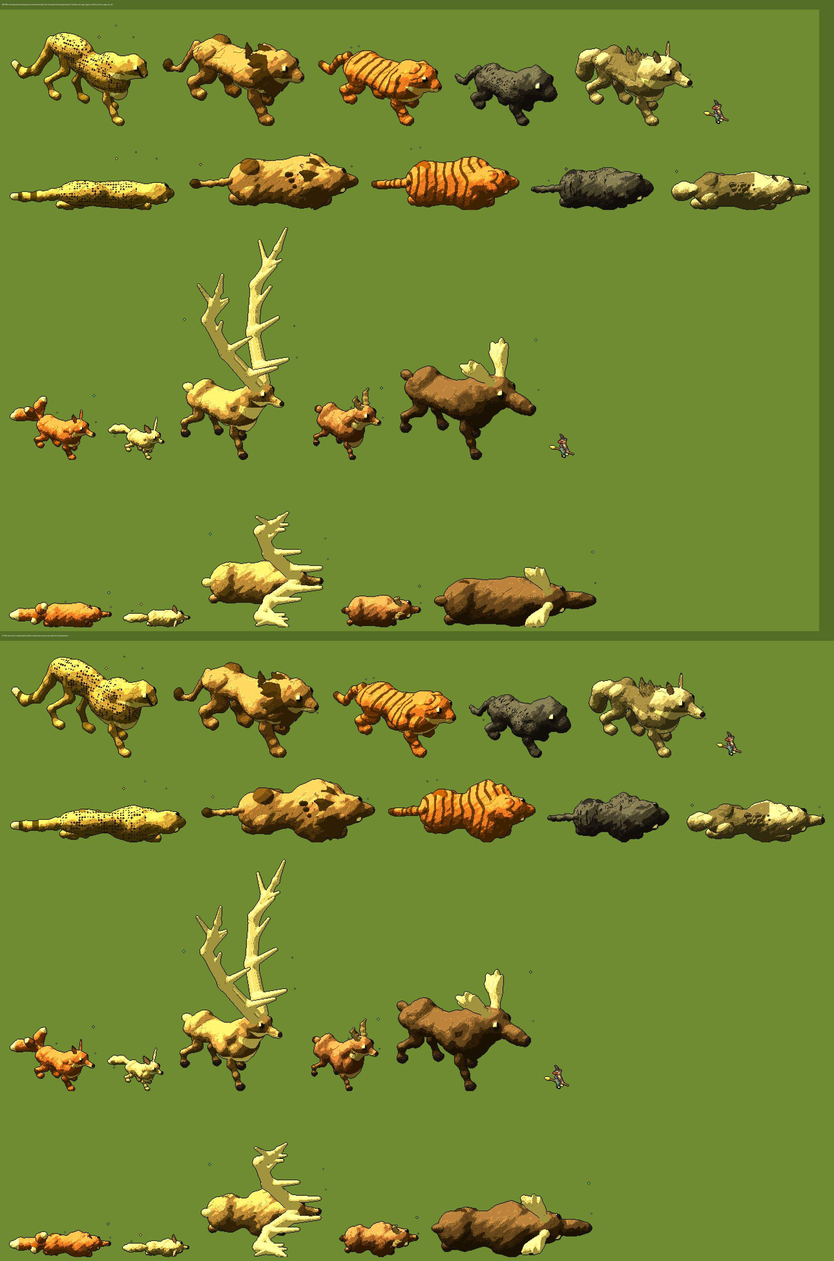
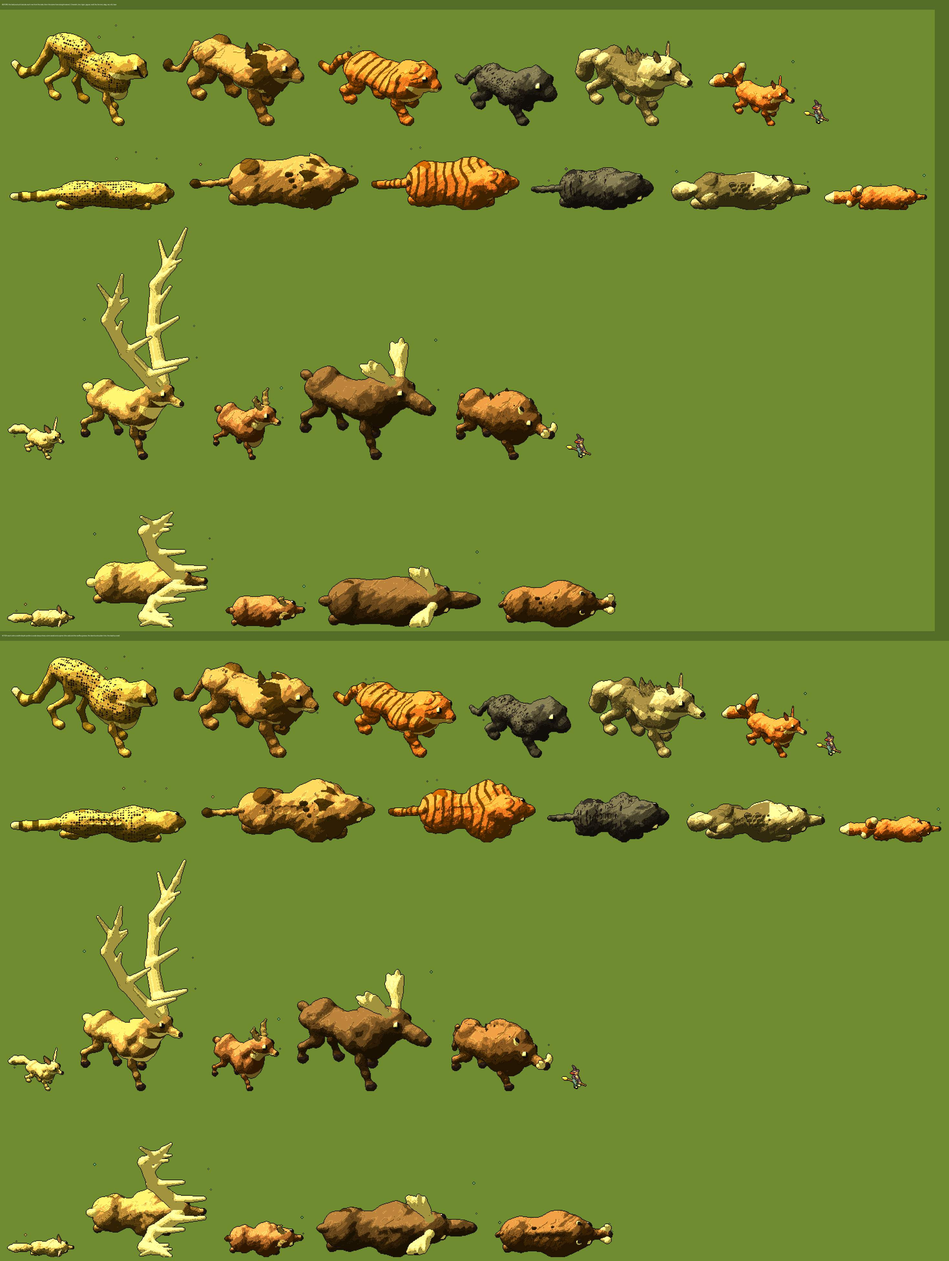
Creatures: a spine along the back, a crest or a groove (Ed: a distinct spine, from a tall crest to a recessed depression)
body.spine: a signed height at the profile's stations, a crest standing on the back line or a valley cut into it between
the back muscles, nothing without one. The cats and the wolf get a groove, the stag and elk a shoulder line, the boar a
crest its bristles stand on. The before/after sheet shows the eleven species from the side and above.

Claude-Session: https://claude.ai/code/session_01SzjrULBxoRwTPW2F6P3sSi

diff --git a/art/genome/species.js b/art/genome/species.js
@@ -13,7 +13,7 @@
 //   coat: markings: belly, saddle, spots, spotMat, socks, shaggy, wool, ridge, rump, legMat.
 //   legend: what the legendary form grows (FEATURE_NAMES in creatures.js).
 export const GENOMES = [
-  { id: "wolf", name: "Wolf", template: "quadruped", builder: "quad", palette: { hue: .08, sat: .2, val: .72 }, body: { hgt: 1.12, len: .66, chest: .46, tuck: .66, neck: .34, neckAng: .62, neckW: .4, hr: .25, legW: 1.05 , profile: { shoulder: { w: 1.12, d: 1.08 }, ribcage: { w: 1.04 }, waist: { w: .74, d: .82 }, loin: { w: .8, d: .9 }, hip: { w: .9 } } }, head: { snout: .9, snoutD: .65 }, parts: { ears: { kind: "point", size: 1.05 }, tail: "brush", feet: "paw" }, coat: { belly: true, saddle: true }, legend: ["wings", "mane"],
+  { id: "wolf", name: "Wolf", template: "quadruped", builder: "quad", palette: { hue: .08, sat: .2, val: .72 }, body: { hgt: 1.12, len: .66, chest: .46, tuck: .66, neck: .34, neckAng: .62, neckW: .4, hr: .25, legW: 1.05 , profile: { shoulder: { w: 1.12, d: 1.08 }, ribcage: { w: 1.04 }, waist: { w: .74, d: .82 }, loin: { w: .8, d: .9 }, hip: { w: .9 } } , spine: { ribcage: -.025, waist: -.035, loin: -.025 } }, head: { snout: .9, snoutD: .65 }, parts: { ears: { kind: "point", size: 1.05 }, tail: "brush", feet: "paw" }, coat: { belly: true, saddle: true }, legend: ["wings", "mane"],
     // its evolution (docs/art-guide/EVOLUTIONS.md): a round pup with big paws and floppy ears, a lanky young, an adult with a heavy
     // shaggy mane over its shoulders, and the legend: shoulders twice its hips, a mane of spiky locks, pale spirit-fire along its
     // spine, glowing eyes and frost on its muzzle
@@ -51,7 +51,7 @@ export const GENOMES = [
       { body: { len: 1.6, hgt: .55, bw: .62, chest: .04, tuck: .05, legW: 1.7, hr: .3, neckAng: .12 }, head: { blaze: 1.8 }, features: [{ kind: "mane", from: .1, to: .85, height: .04, count: 16, lean: .95 }, { kind: "claws", size: .14 }] }, // (Ed, 2026-10-07: low, wide and flat-backed on short legs, not a bear: art lint)
       { body: { len: .95, bw: .5, chest: .14, tuck: .16, legW: 1.8, neckAng: .25, hr: .3 }, head: { blaze: 1.6 }, features: [{ kind: "mane", from: .05, to: .9, height: .08, count: 20, lean: 1 }, { kind: "claws", size: .24 }] }, // the elder (art/elders.js): grizzled, scarred, its stripes running down its back as chalk hill-figure lines, a bronze torc
     ] },
-  { id: "boar", name: "Boar", template: "quadruped", builder: "quad", palette: { hue: .07, sat: .62, val: .5 }, body: { len: .72, chest: .38, tuck: .5, neck: .2, neckAng: -.2, neckW: .55, hr: .27, legW: .9, back: "hump", front: 1.18, humpK: 1.6 }, head: { snout: 1.25, snoutD: .62, snoutTaper: .55, disc: true }, parts: { ears: { kind: "small", size: .8 }, tail: "thin", feet: "hoof", tusks: true }, coat: { ridge: true }, texture: { kind: "bristles" },
+  { id: "boar", name: "Boar", template: "quadruped", builder: "quad", palette: { hue: .07, sat: .62, val: .5 }, body: { len: .72, chest: .38, tuck: .5, neck: .2, neckAng: -.2, neckW: .55, hr: .27, legW: .9, back: "hump", front: 1.18, humpK: 1.6 , spine: { shoulder: .1, ribcage: .09, waist: .07, loin: .05, hip: .02 } }, head: { snout: 1.25, snoutD: .62, snoutTaper: .55, disc: true }, parts: { ears: { kind: "small", size: .8 }, tail: "thin", feet: "hoof", tusks: true }, coat: { ridge: true }, texture: { kind: "bristles" },
     // its evolution (the pilot of the evolution kit): a round, stubby, banded piglet; the young as it is; a heavy-fronted adult with a
     // shoulder hump, its head low and its tusks curving; a massive, top-heavy legend charging head-down with huge curling tusks, pale
     // flames off their tips and a dark shaggy mane along its spine and belly
@@ -69,7 +69,7 @@ export const GENOMES = [
         { kind: "scars", count: 3, from: .35 },
       ] },
     ] },
-  { id: "stag", name: "Stag", template: "quadruped", builder: "quad", palette: { hue: .08, sat: .5, val: .7 }, body: { hgt: 1.3, len: .6, chest: .6, tuck: .7, neck: .55, neckAng: .95, neckW: .32, hr: .2, legW: .75 , profile: { shoulder: { w: 1.15, d: 1.1 }, ribcage: { w: 1.08 }, waist: { w: .72, d: .82 }, loin: { w: .8, d: .9 }, hip: { w: .95 } } }, head: { snout: 1.15, snoutD: .6, snoutTaper: .65 }, parts: { ears: { kind: "point", size: 1.1 }, tail: "deer", feet: "hoof", antlers: "branch" }, coat: { belly: true, spots: "young", antlerK: 1.9, rump: true }, legend: ["antlersGlow"] },
+  { id: "stag", name: "Stag", template: "quadruped", builder: "quad", palette: { hue: .08, sat: .5, val: .7 }, body: { hgt: 1.3, len: .6, chest: .6, tuck: .7, neck: .55, neckAng: .95, neckW: .32, hr: .2, legW: .75 , profile: { shoulder: { w: 1.15, d: 1.1 }, ribcage: { w: 1.08 }, waist: { w: .72, d: .82 }, loin: { w: .8, d: .9 }, hip: { w: .95 } } , spine: { shoulder: .04, ribcage: .025 } }, head: { snout: 1.15, snoutD: .6, snoutTaper: .65 }, parts: { ears: { kind: "point", size: 1.1 }, tail: "deer", feet: "hoof", antlers: "branch" }, coat: { belly: true, spots: "young", antlerK: 1.9, rump: true }, legend: ["antlersGlow"] },
   { id: "hare", name: "Hare", template: "quadruped", builder: "quad", palette: { hue: .08, sat: .4, val: .72 }, body: { hgt: .72, len: .5, chest: .4, tuck: .45, neck: .2, neckAng: .9, neckW: .35, hr: .27, legW: .85, haunch: 1.35, hindFoot: 1.6, back: "arch" }, head: { snout: .65, snoutD: .7, whiskers: true }, parts: { ears: { kind: "long", size: 2.4 }, tail: "puff", feet: "paw" }, coat: { belly: true }, legend: [], elder: { kind: "hare", ears: true, eye: "EYE" } },
   { id: "owl", name: "Owl", template: "avian", builder: "owl", palette: { hue: .08, sat: .5, val: .55 }, legend: ["eyesRing", "wings"],
     // its evolution (docs/art-guide/EVOLUTIONS.md): a downy owlet with huge eyes and no tufts, a smooth young with short tufts, an
@@ -87,7 +87,7 @@ export const GENOMES = [
   { id: "toad", name: "Toad", template: "squat", builder: "toad", palette: { hue: .2, sat: .5, val: .55 }, legend: ["crown", "sac"] },
   { id: "otter", name: "Otter", template: "quadruped", builder: "quad", palette: { hue: .07, sat: .55, val: .45, belly: "white" }, body: { stance: "flat", hgt: .46, len: 1.15, chest: .32, tuck: .26, neck: .36, neckAng: .5, neckW: .6, hr: .27, legW: 1.2, back: "arch" }, head: { snout: .55, snoutD: .55, muzzle: true, whiskers: true }, parts: { ears: { kind: "round", size: .4 }, tail: "otter", feet: "paw" }, coat: { belly: true }, legend: ["ribbons"] },
   { id: "lynx", name: "Lynx", template: "quadruped", builder: "quad", palette: { hue: .09, sat: .45, val: .75 }, body: { hgt: 1.08, len: .5, chest: .56, tuck: .62, neck: .25, neckAng: .8, neckW: .4, hr: .27, legW: .95 }, head: { snout: .5, snoutD: .75, snoutTaper: .8, cheeks: true, whiskers: true }, parts: { ears: { kind: "tuft", size: 1.5 }, tail: "bob", feet: "paw" }, coat: { belly: true, spots: true }, legend: ["mane"] },
-  { id: "elk", name: "Elk", template: "quadruped", builder: "quad", palette: { hue: .07, sat: .55, val: .38 }, body: { hgt: 1.4, len: .68, chest: .6, tuck: .66, neck: .45, neckAng: .75, neckW: .42, hr: .24, legW: .9, back: "hump" , profile: { shoulder: { w: 1.15, d: 1.1 }, ribcage: { w: 1.1 }, waist: { w: .78, d: .86 }, loin: { w: .85, d: .94 }, hip: { w: .95 } } }, head: { snout: 1.6, snoutD: .9, snoutTaper: .85 }, parts: { ears: { kind: "point", size: .9 }, tail: "stub", feet: "hoof", antlers: "palm", antlerK: 1.75 }, coat: { shaggy: true }, legend: ["antlersGlow", "moss"] },
+  { id: "elk", name: "Elk", template: "quadruped", builder: "quad", palette: { hue: .07, sat: .55, val: .38 }, body: { hgt: 1.4, len: .68, chest: .6, tuck: .66, neck: .45, neckAng: .75, neckW: .42, hr: .24, legW: .9, back: "hump" , profile: { shoulder: { w: 1.15, d: 1.1 }, ribcage: { w: 1.1 }, waist: { w: .78, d: .86 }, loin: { w: .85, d: .94 }, hip: { w: .95 } } , spine: { shoulder: .05, ribcage: .03 } }, head: { snout: 1.6, snoutD: .9, snoutTaper: .85 }, parts: { ears: { kind: "point", size: .9 }, tail: "stub", feet: "hoof", antlers: "palm", antlerK: 1.75 }, coat: { shaggy: true }, legend: ["antlersGlow", "moss"] },
   { id: "raven", name: "Raven", template: "avian", builder: "raven", palette: { hue: .68, sat: .35, val: .3 }, legend: ["wings", "eyesRing"] },
   { id: "bat", name: "Bat", template: "flyer", builder: "bat", palette: { hue: .78, sat: .25, val: .45 }, legend: ["wingsBig"] , texture: { kind: "fur", size: 3 } },
   { id: "mole", name: "Mole", template: "squat", builder: "mole", palette: { hue: .7, sat: .15, val: .32, flower: [70, 190, 150] }, legend: [], elder: { kind: "mole" }, texture: { kind: "fur", size: 3 } },
@@ -167,7 +167,7 @@ export const GENOMES = [
   // a round, big-pawed cub with soft broad stripes, a lanky young, a heavy-shouldered adult with a ruff of cheek fur, and the legend:
   // the elder of the tigers, huge and grizzled, its stripes worn thin with age, old scars raked across its flanks and brow, a white
   // ruff, and a garland of red flowers and bronze beads round its neck, the jungle's offerings
-  { id: "tiger", name: "Tiger", template: "quadruped", builder: "quad", palette: { hue: .065, sat: .85, val: .9, belly: "white", flower: [214, 48, 58] }, body: { hgt: 1.1, len: .86, chest: .5, tuck: .56, neck: .28, neckAng: .5, neckW: .52, hr: .3, legW: 1.3, bw: .32 , profile: { shoulder: { w: 1.18, d: 1.05 }, ribcage: { w: 1.08 }, waist: { w: .8, d: .9 }, loin: { w: .86, d: .95 }, hip: { w: .96 } } }, head: { snout: .55, snoutD: .78, snoutTaper: .8, cheeks: true, whiskers: true, muzzle: true }, parts: { ears: { kind: "round", size: .75 }, tail: "tiger", feet: "paw" }, coat: { belly: true, stripes: { n: 11, w: .3 } }, legend: ["mane"],
+  { id: "tiger", name: "Tiger", template: "quadruped", builder: "quad", palette: { hue: .065, sat: .85, val: .9, belly: "white", flower: [214, 48, 58] }, body: { hgt: 1.1, len: .86, chest: .5, tuck: .56, neck: .28, neckAng: .5, neckW: .52, hr: .3, legW: 1.3, bw: .32 , profile: { shoulder: { w: 1.18, d: 1.05 }, ribcage: { w: 1.08 }, waist: { w: .8, d: .9 }, loin: { w: .86, d: .95 }, hip: { w: .96 } } , spine: { ribcage: -.04, waist: -.048, loin: -.038, hip: -.015 } }, head: { snout: .55, snoutD: .78, snoutTaper: .8, cheeks: true, whiskers: true, muzzle: true }, parts: { ears: { kind: "round", size: .75 }, tail: "tiger", feet: "paw" }, coat: { belly: true, stripes: { n: 11, w: .3 } }, legend: ["mane"],
     levels: [
       { body: { len: .6, hr: .34, legW: 1.55 }, coat: { stripes: { n: 7, w: .28, legN: 4 } }, parts: { ears: { kind: "round", size: 1.05 } } },
       { body: { len: .84, legW: 1.15, chest: .54 } },
@@ -198,7 +198,7 @@ export const GENOMES = [
   // whose rosettes still show, a lithe young, a heavy-jawed adult, and the legend: a huge head and a crushing jaw, its hidden rosettes
   // surfacing black on black in the moonlight, rippling like light on water as it moves; the elder of its kind, its muzzle grey, old
   // scars on its flanks and brow, a collar of jade and bronze beads
-  { id: "jaguar", name: "Black jaguar", template: "quadruped", builder: "quad", palette: { hue: .7, sat: .16, val: .3, flower: [60, 176, 132] }, body: { hgt: .95, len: .84, chest: .46, tuck: .52, neck: .26, neckAng: .5, neckW: .48, hr: .29, legW: 1.25, bw: .3 , profile: { shoulder: { w: 1.18, d: 1.05 }, ribcage: { w: 1.06 }, waist: { w: .8, d: .9 }, loin: { w: .86, d: .95 }, hip: { w: .96 } } }, head: { snout: .5, snoutD: .8, snoutTaper: .82, cheeks: true, whiskers: true, eyeK: 1.1 }, parts: { ears: { kind: "round", size: .7 }, tail: "jaguar", feet: "paw" }, coat: { rosettes: { k: 8, density: .75 } }, legend: ["mane"],
+  { id: "jaguar", name: "Black jaguar", template: "quadruped", builder: "quad", palette: { hue: .7, sat: .16, val: .3, flower: [60, 176, 132] }, body: { hgt: .95, len: .84, chest: .46, tuck: .52, neck: .26, neckAng: .5, neckW: .48, hr: .29, legW: 1.25, bw: .3 , profile: { shoulder: { w: 1.18, d: 1.05 }, ribcage: { w: 1.06 }, waist: { w: .8, d: .9 }, loin: { w: .86, d: .95 }, hip: { w: .96 } } , spine: { ribcage: -.04, waist: -.048, loin: -.038, hip: -.015 } }, head: { snout: .5, snoutD: .8, snoutTaper: .82, cheeks: true, whiskers: true, eyeK: 1.1 }, parts: { ears: { kind: "round", size: .7 }, tail: "jaguar", feet: "paw" }, coat: { rosettes: { k: 8, density: .75 } }, legend: ["mane"],
     levels: [
       { body: { len: .6, hr: .33, legW: 1.45 }, coat: { rosettes: { k: 6, density: .8 } }, parts: { ears: { kind: "round", size: .95 } } },
       { body: { len: .86, legW: 1.1, chest: .5 } },
@@ -251,7 +251,7 @@ export const GENOMES = [
       ] }] },
   // the savanna's lion (a journey kind: unknown-08's, the hot south): a big tawny cat, a spotted cub, a lean young with a fuzz of mane,
   // the adult's dark mane; its legend the sun's: a mane of flame-locks, its eyes lit, sun-fire rising off it
-  { id: "lion", name: "Lion", template: "quadruped", builder: "quad", palette: { hue: .075, sat: .58, val: .66, belly: "white", magic: .09 }, body: { hgt: 1.4, len: .78, chest: .6, tuck: .7, neck: .3, neckAng: .55, neckW: .44, hr: .25, legW: 1.05, bw: .27 , profile: { shoulder: { w: 1.2, d: 1.06 }, ribcage: { w: 1.08 }, waist: { w: .78, d: .88 }, loin: { w: .85, d: .94 }, hip: { w: .95 } } }, head: { snout: .85, snoutD: .78, snoutTaper: .8, cheeks: true, whiskers: true }, parts: { ears: { kind: "round", size: .7 }, tail: "tuft", feet: "paw" }, coat: { belly: true }, legend: ["mane"],
+  { id: "lion", name: "Lion", template: "quadruped", builder: "quad", palette: { hue: .075, sat: .58, val: .66, belly: "white", magic: .09 }, body: { hgt: 1.4, len: .78, chest: .6, tuck: .7, neck: .3, neckAng: .55, neckW: .44, hr: .25, legW: 1.05, bw: .27 , profile: { shoulder: { w: 1.2, d: 1.06 }, ribcage: { w: 1.08 }, waist: { w: .78, d: .88 }, loin: { w: .85, d: .94 }, hip: { w: .95 } } , spine: { ribcage: -.04, waist: -.05, loin: -.04, hip: -.015 } }, head: { snout: .85, snoutD: .78, snoutTaper: .8, cheeks: true, whiskers: true }, parts: { ears: { kind: "round", size: .7 }, tail: "tuft", feet: "paw" }, coat: { belly: true }, legend: ["mane"],
     levels: [
       { body: { len: .5, chest: .4, tuck: .45, hr: .3, legW: 1.3 }, head: { snout: .45 }, parts: { ears: { kind: "round", size: 1 } }, coat: { spots: true } },
       { body: { len: .74, chest: .52, tuck: .6, legW: 1, neckW: .4 }, head: { snout: .65 }, features: [{ kind: "ruff", size: .1, count: 10, mat: "BODY2" }] },
@@ -266,7 +266,7 @@ export const GENOMES = [
   // chest, a waist tucked up tight, its spine arched, long thin legs, a small round head with small ears, solid black spots, black
   // tear lines and a long heavy ringed tail, its rudder; the cub in its silver mantle; its legend the wind's: longer and leaner still,
   // its tears lit, wind streaming off its back
-  { id: "cheetah", name: "Cheetah", template: "quadruped", builder: "quad", palette: { hue: .1, sat: .6, val: .84, belly: "white", magic: .13 }, body: { hgt: 1.4, len: .66, chest: .47, tuck: .86, neck: .36, neckAng: .5, neckW: .24, hr: .17, legW: .58, bw: .17, back: "arch", archK: 1.8, profile: { shoulder: { w: 1.25, d: 1.08 }, ribcage: { w: 1.1 }, waist: { w: .68, d: .8 }, loin: { w: .78, d: .9 }, hip: { w: .95 } } }, head: { snout: .4, snoutD: .75, snoutTaper: .85, whiskers: true, tears: true }, parts: { ears: { kind: "round", size: .5 }, tail: "ringed", feet: "paw" }, coat: { belly: true, spots: "solid" }, legend: ["mane"], texture: { kind: "fur", size: 3, lumps: .0015 },
+  { id: "cheetah", name: "Cheetah", template: "quadruped", builder: "quad", palette: { hue: .1, sat: .6, val: .84, belly: "white", magic: .13 }, body: { hgt: 1.4, len: .66, chest: .47, tuck: .86, neck: .36, neckAng: .5, neckW: .24, hr: .17, legW: .58, bw: .17, back: "arch", archK: 1.8, profile: { shoulder: { w: 1.25, d: 1.08 }, ribcage: { w: 1.1 }, waist: { w: .68, d: .8 }, loin: { w: .78, d: .9 }, hip: { w: .95 } } , spine: { ribcage: -.04, waist: -.05, loin: -.045, hip: -.015 } }, head: { snout: .4, snoutD: .75, snoutTaper: .85, whiskers: true, tears: true }, parts: { ears: { kind: "round", size: .5 }, tail: "ringed", feet: "paw" }, coat: { belly: true, spots: "solid" }, legend: ["mane"], texture: { kind: "fur", size: 3, lumps: .0015 },
     levels: [
       { body: { len: .5, chest: .42, tuck: .5, hr: .25, legW: .9, bw: .22, archK: .6 }, head: { snout: .35 }, parts: { ears: { kind: "round", size: .7 } }, features: [{ kind: "mane", from: .15, to: 1, height: .1, count: 14, lean: .7, mat: "BELLY" }] },
       { body: { len: .64, chest: .46, tuck: .8, legW: .6, archK: 1.4 }, features: [{ kind: "mane", from: .6, to: 1, height: .05, count: 6, lean: .8, mat: "BELLY" }] },

diff --git a/art/creatures3d.js b/art/creatures3d.js
@@ -67,6 +67,14 @@ export function withTexture(tex, f) { const was = TEX; TEX = tex; try { return f
 // sprite; form.motes says whether the glowing motes still float round it.
 let FORM = null;
 export function withForm(form, f) { const was = FORM; FORM = form; try { return f(); } finally { FORM = was; } }
+// A genome's spine (quad3d) as a height along the body, x in body lengths from the hip station (-.5) to the shoulder's (.48): a
+// number for the whole back, or heights at the profile's stations, straight lines between, fading to nothing past the ends.
+function spineOf(s) {
+  if (s == null) return null;
+  const at = [-.5, -.25, 0, .25, .48], h = typeof s === "number" ? [s, s, s, s, s] : ["hip", "loin", "waist", "ribcage", "shoulder"].map(k => s[k] ?? 0);
+  if (!h.some(v => v)) return null;
+  return x => { if (x <= at[0] - .35 || x >= at[4] + .35) return 0; if (x <= at[0]) return h[0] * (1 - (at[0] - x) / .35); if (x >= at[4]) return h[4] * (1 - (x - at[4]) / .35); for (let i = 0; i < 4; i++) if (x <= at[i + 1]) return h[i] + (h[i + 1] - h[i]) * (x - at[i]) / (at[i + 1] - at[i]); return 0; };
+}
 // Another view for the tools (a sheet from above: art/preview.mjs TOP=1): { yaw, pitch } for model3d's render, at the scale the
 // usual view would give, so the two line up. Never in the game.
 let VIEW = null;
@@ -452,7 +460,20 @@ export function quad3d(S, level, frame, st, facing = "towards") {
   if (withers) m.ell([len * .58, top - .1 + withers + hump * .4, 0], [len * .3, .13 + withers, bw * .8 * front * wAt("shoulder")], M.BODY, { paint: paintBody }); // the withers, over the shoulders
   if (croup) m.ell([-len * .66, top - .11 + croup + arch * .5, 0], [len * .24, .12 + croup, bw * .74 * wAt("hip")], M.BODY, { paint: paintBody }); // the pelvis
   if (brisket) m.ell([len * .8, chest + .06 + brisket * .5, 0], [len * .22, .1 + brisket, bw * .62 * front * wAt("shoulder")], M.BODY, { paint: paintBody }); // the brisket, the chest's keel
-  if (q.ridge) for (let i = 0, rk = typeof q.ridge === "number" ? q.ridge : 1, n = Math.round((legend ? 16 : 10) * Math.max(1, rk * .7)); i < n; i++) { const x = -len * .8 + i * len * 1.75 / (n - 1), h = (.07 + (legend ? .04 : 0)) * (1 + .5 * Math.max(0, x / len)) * rk * (rk > 1 && i % 2 ? .6 : 1); m.ell([x, top + .02 + hump * Math.max(0, 1 - Math.abs(x / len - .5) * 2) + h * .5, 0], [h, .03, bw * .25], M[q.ridgeMat || "BODY3"], { dir: [-.3, 1, 0], up: [1, 0, 0] }); }
+  // ---- its spine (Ed, 2026-10-13: "giving animals the possibility of having a distinct spine along its back, which can be anything
+  // from a tall crest to a recessed depression"): q.spine, a height in model units at each of the profile's stations (or one number
+  // for the whole back): + a crest standing up along the back line (a boar's bristles, a stag's shoulder line), 0 flat (as built),
+  // - a groove sunk into it (a big cat's or a lean dog's spine lying in the dip between its back muscles), interpolated between the
+  // stations and fading out at the neck and the rump. The back line is the body's own (the loaves, the withers and the croup) at each
+  // place, so a crest rides over the withers and a groove runs down into the loin. The ridge's spikes stand on the crest. ----
+  const spineAt = spineOf(q.spine), backTop = x => { let y = -Infinity; for (const P of m.parts) { if (P.type !== "ell" || P.cut || P.extra || P.part !== "body") continue; const u = (x - P.c[0]) / P.r[0]; if (Math.abs(u) >= 1) continue; y = Math.max(y, P.c[1] + P.r[1] * Math.sqrt(1 - u * u)); } return y; };
+  if (spineAt) for (let i = 0; i <= 12; i++) {
+    const x = (-.85 + i * 1.7 / 12) * len, s = spineAt(x / len), y = backTop(x); if (!s || y === -Infinity) continue;
+    const dx = len * 1.7 / 12 * .75;
+    if (s > 0) m.ell([x, y + s * .3, 0], [dx, s * .8, bw * .11 + s * .15], M.BODY, { paint: paintBody }); // a crest: a fin of flesh and hair standing along the back line
+    else m.ell([x, y + s * .15, 0], [dx, -s * .85, bw * .16 - s * .3], M.BODY, { paint: paintBody, cut: true }); // a groove: a valley cut down into the back between its muscles, its walls the body's own
+  }
+  if (q.ridge) for (let i = 0, rk = typeof q.ridge === "number" ? q.ridge : 1, n = Math.round((legend ? 16 : 10) * Math.max(1, rk * .7)); i < n; i++) { const x = -len * .8 + i * len * 1.75 / (n - 1), h = (.07 + (legend ? .04 : 0)) * (1 + .5 * Math.max(0, x / len)) * rk * (rk > 1 && i % 2 ? .6 : 1); m.ell([x, top + .02 + hump * Math.max(0, 1 - Math.abs(x / len - .5) * 2) + h * .5 + Math.max(0, spineAt?.(x / len) ?? 0), 0], [h, .03, bw * .25], M[q.ridgeMat || "BODY3"], { dir: [-.3, 1, 0], up: [1, 0, 0] }); }
   if (q.wool) for (let i = 0; i < 14; i++) { const a = i / 14 * Math.PI * 2; m.ell([len * Math.cos(a) * .7, (top + chest) / 2 + Math.sin(a) * .2, bw * (i % 2 ? .5 : -.5)], [.16, .14, .14], M.BODY); }
   // ---- legs: a real skeleton (the menagerie review, 2026-10-13: every leg was hip, a knee straight below it, a ball) ----
   // Fore: shoulder, elbow (behind), wrist (ahead), paw; hind: hip, stifle (ahead), hock (behind), paw; the stance by how the species

diff --git a/CLAUDE.md b/CLAUDE.md
@@ -147,6 +147,7 @@ Literal, stable names for the parts of the game, as Ed and the builders agree th
 - **Surface texture**: a creature's fur, feathers, scales, plates, shell or bristles (`art/genome/texture.js`; Ed, 2026-10-05, #119): its coat's pixels gathered into small cells shaped by its kind (strokes running back and down the body, scallops, a diamond lattice, segments, bands round a whorl, long spines), each sharing one normal so the game's stepped light breaks along tufts rather than smooth contours; three or four chosen tones by a fixed light from above (the lifted top `M.BODYL`, the body, its shade, a core shadow), cell by cell; dark seams at a cell's lower or trailing edge; and lumps on its volumes. A baby's coarse and soft, a legend's fine and rich. The genome's `texture` (`kind`, `size`, `stretch`, `flatten`, `contrast`, `seam`, `lumps`, `tones`) over its template's; the rig's pieces wear it too. `?texture=0` (the style's `texture` knob) draws creatures as before. Under the art director's stylised bake (`?style=bold|ref`, `style.artStyle`) the stamps only shape the normals (and seams, by `texDetail`), and the bake lays the tones; `texDetail` (0 cel shapes to 1 fine strokes) and `hueShift` are the style's knobs.
 - **Evolution kit**: a species' genome `levels` (four records, baby to legend, any of them null): each level's own proportions (its `body`, `head`, `coat` and `parts` over the species' own: `humpK`, `front`, `neckAng`, `tuskSize`, `tuskCurl`, `bands`...) and its own `features` (`GENOME_FEATURE_KINDS`: `mane`, tapered curved spikes along the back or belly; `wisps`, flames off its tusks, horns or spine; `eyeglint`, its eyes shown past a hump; `stones`, standing stones on its back with moonlit runes; `claws`, long claws off its feet; `moss`, moss and heather on its flanks; `tails`, brush tails fanned along its rump (a kitsune's seven, fox-fire tips; `replace` for its own tail); `ruff`, locks round its neck; `brambles`, thorny vines with berries (the genome palette's `flower`) over its body; and the head and coat knobs `mask` and `beads`; the twisted horn, `horn3d`, is a part: `parts.horns: "twist"` with `head.horn`, a ram's curl by `ease`, `tighten` and `thorns`), drawn by `evolve3d` (`art/creatures3d.js`) from the model's landmarks, each feature on its rig piece (Ed, 2026-10-05: "the evolved design per stage, not just being larger"). It replaces a legend's single `legend` feature where a species has it. The boar is the pilot; the badger (the moor's walking stones) the snail (a tower the forest built; its builder reads `body.shell`) and the fox (a kitsune) the ram (bronze thorned horns, brambles) the woodlouse (its builder reads `body.plates`: a fortress with moonstone spires) the wolf (spirit-fire over a spiky mane; `frost` on its muzzle) and the owl (its builder reads `down`, `tufts`, `discRim`, `bars`, `cloak`, `eyesRing`) follow. A species with a legend level no longer also grows its old `legend` feature.
 - **Body profile**: a quadruped's girth along its length, its width and depth set apart (Ed, 2026-10-13: "a key issue with a lot of animals is that they end up sausage shaped; we need them to be able to have a thicker chest and a slimmer abdomen; this needs separate width and depth in the body"; `body.profile` in `art/genome/species.js`, read by `quad3d`): stations from the front back, `shoulder`, `ribcage`, `waist`, `loin`, `hip`, each `{ w, d }` (or one number for both), `w` its width side to side and `d` its depth back to belly as multiples of the body as built there (the back line kept, the belly lifting as `d` falls; a station left out is 1). With no profile the body draws exactly as before (the three loaves); with one the torso is lofted through the stations, each slice the loaves' own envelope there scaled, the forelegs standing as wide as the shoulder and the hind legs as the hip. The big cats, the canids and the deer have theirs. `TOP=1 node art/preview.mjs lineup <ids> <png>` draws each row again from straight above (`PROFILE=0` the bodies with no profile, `LEVELS=2,3` those levels only), for a before/after sheet.
+- **Spine**: a quadruped's back line as a shape of its own (Ed, 2026-10-13: "giving animals the possibility of having a distinct spine along its back, which can be anything from a tall crest to a recessed depression"; `body.spine`, read by `quad3d`): a height in model units at each of the body profile's stations (or one number for the whole back), `+` a crest standing along the back line (a boar's bristles, a stag's shoulder line), `0` flat (as built), `-` a groove cut down into the back between its muscles (a big cat's, a lean dog's); straight lines between the stations, fading out at the neck and the rump; the back line is the body's own at each place (the loaves, the withers, the croup), so a crest rides the withers and a groove runs into the loin, and the ridge's spikes (`coat.ridge`) stand on the crest. `PROFILE=0` on the lineup preview draws the bodies with neither profile nor spine.
 - **Expression**: a creature's face (`art/genome/expressions.js`, `EXPRESSIONS`): neutral, angry (brows down to the middle over narrowed eyes; with the woken look when enraged), happy (eyes closed up in smiling arcs; party animals and friendly areas' creatures) and dazed (crossed-out or odd eyes, worried brows; while stunned), drawn by the generator as part of the face from the head and eye anchors, sized in pixels so the smallest read (`gear.face`, `faceUp`; brows in `M.BROW`, ink on a light coat, pale on a dark one). Each template has a **face style** (`face`: brow bar, tuft or ridge; happy arc or squint; dazed x or wobble) a genome can override. Neutral draws exactly as before; from behind the face isn't drawn. The view picks it with `expression(c, time)` (`src/render/looks.ts`), and the live rig swaps in the head piece baked with that face (`rigParts(...).faces`).
 - **Silhouette check**: each species' shape (young and adult, facing us) shrunk to 24 px and compared with every other's by overlap (`art/genome/silhouette.js`); two closer than 0.15 fail `art/check.mjs`. It caught the dormouse reading as a squirrel (it has its own long, low tail now).
 - **Live rig**: on by default (Ed, 2026-10-05: "let's put what we have live"; `?rig=0` turns it off to compare; #79 stages 4–5): four-legged creatures and snakes, wild, enraged (their own woken pages: red eyes, the red tint) and party animals (happy or leashed: their gear, collar, hat and glasses, baked on the head piece, a page per gear; shoes aren't, the legs being discs), on the ground when drawn at least `rig.minPx` (40) art pixels high, baked frames in the treetops, except the levels in `rig.alwaysLevels` (legends: rigged at any size), put together each frame from **rig parts** (`art/genome/parts.js` `rigParts`: torso, head and tail pieces baked at five headings, the other three mirrored, with their pivots, and discs to string legs and serpent bodies; a leg's discs lit as slices of an upright limb, not balls, so they read as one limb), baked by the art workers into one atlas page per species and level (`rig` jobs, keyed by the genome's hash, the least used let go past 48), and laid out by `src/render/rig/rig.ts`: legs as two-bone IK chains stepping on a trot's phases with a duty factor by speed, a serpent as a follow-the-leader chain weaving behind its head, the body leaning into acceleration, crouching before a charge or a leap, stretching in a charge, tucking its legs in the air, its tail swinging out on turns. `node tools/rig/strip.mjs wolf,snake` draws frame strips of a scripted run (`SHOES=boots` as a party animal in those shoes); `node tools/rig/demo.cjs` (ARENA=...) screenshots the game with it; `node tools/rig/perf.cjs` times 300 creatures with it off and on.
